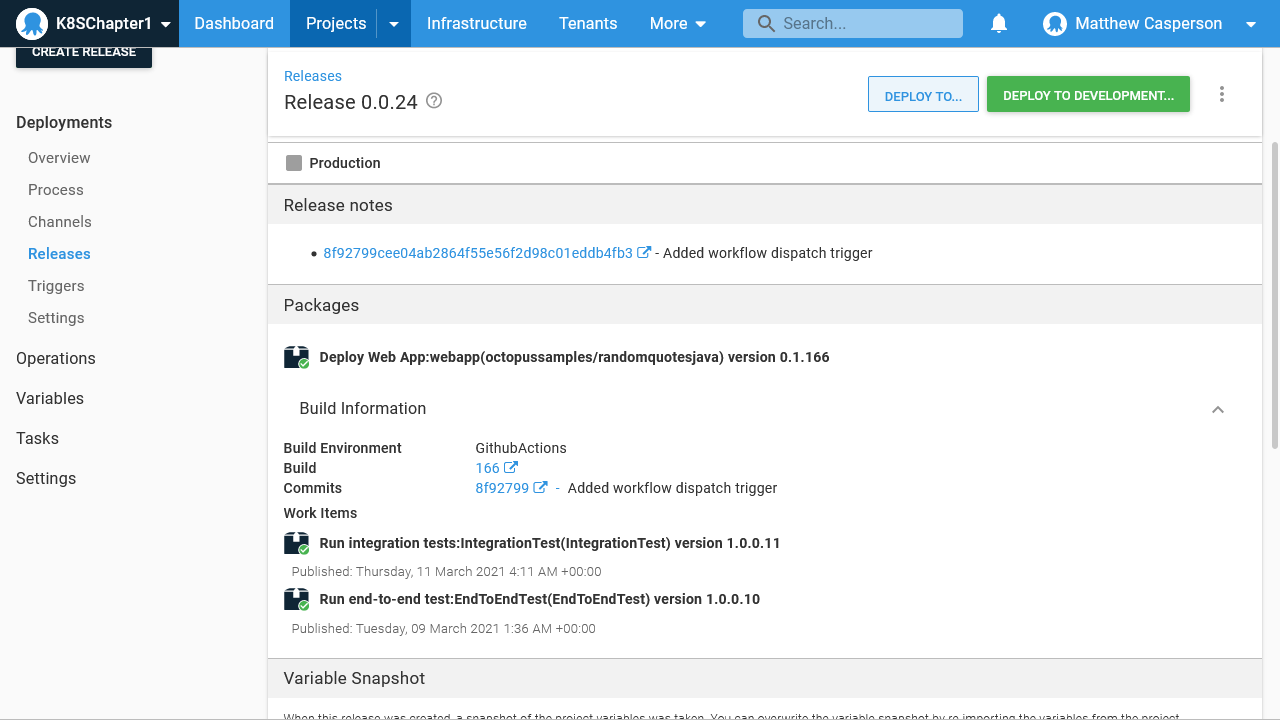
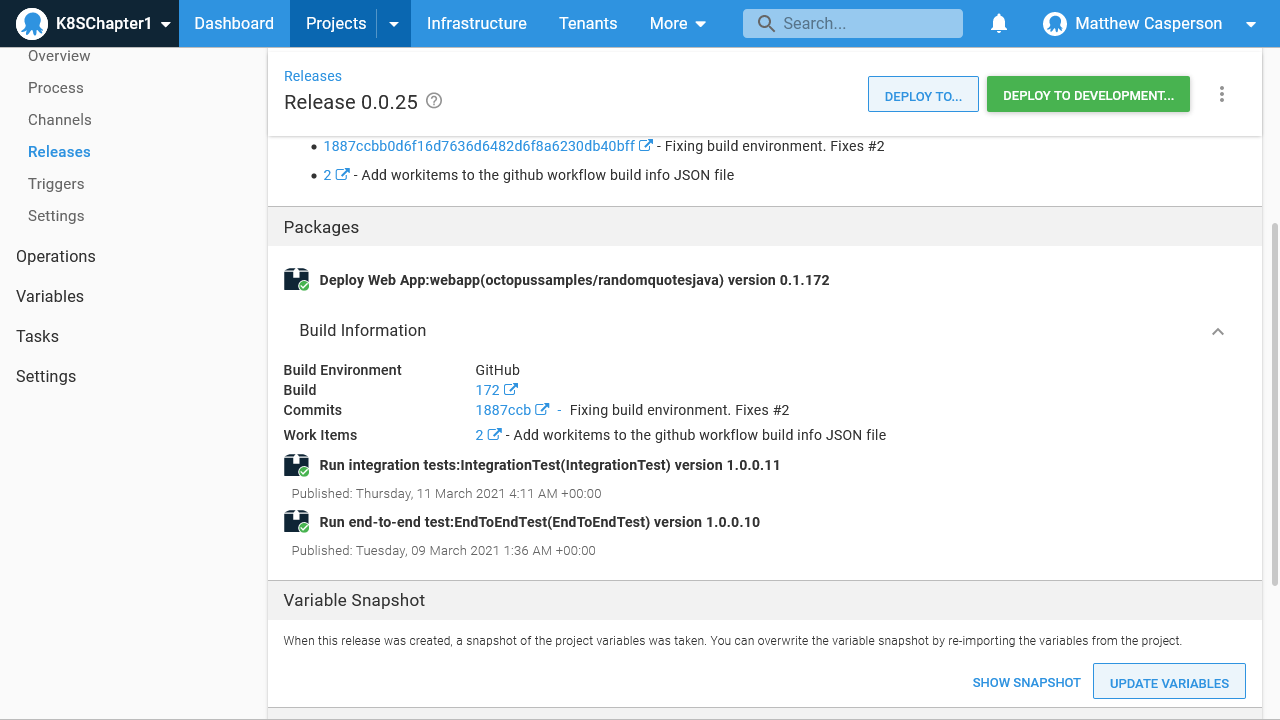
Added examples of work items

diff --git a/_includes/chapter5.html b/_includes/chapter5.html
@@ -95,6 +95,10 @@
 </p>
 <p class="note">
     At the time of writing there is no official Octopus GitHub Actions plugin that can be used to create a build information JSON file.
+</p>
+<p>
+    Before we start pushing build information, we need to enable Octopus to parse commit messages looking for links to work items (or, as they are know in GitHub, issues). This is done through <b>Configuration -> Settings -> GitHub Issue Tracker</b>. By enabling this setting, GIT commit messages like <b>Updated the blah class to expose x. Fixes #123</b> will be parsed and the <b>Fixes #123</b> string is converted into a link to the GitHub issue number 123.
+</p>
 <p>
     The source code used to generate the Docker image we have been deploying as the frontend web application is found at <a href="https://github.com/OctopusSamples/RandomQuotes-Java">https://github.com/OctopusSamples/RandomQuotes-Java</a>. The code in this GIT repository is built with the workflow file at <a href="https://github.com/OctopusSamples/RandomQuotes-Java/blob/master/.github/workflows/maven.yml">https://github.com/OctopusSamples/RandomQuotes-Java/blob/master/.github/workflows/maven.yml</a>. The complete workflow file is shown below:
 </p>
@@ -177,7 +181,7 @@ jobs:
         \"BuildUrl\": \"https://github.com/${{github.repository}}/actions/runs/${{github.run_id}}\",
         \"BuildNumber\": \"${{ github.run_number }}\",
         \"Branch\": \"${{ github.ref }}\",
-        \"BuildEnvironment\":\"GithubActions\",
+        \"BuildEnvironment\":\"GitHub\",
         \"VcsCommitNumber\":\"${{ github.sha }}\",
         \"VcsCommitUrl\":\"https://github.com/OctopusSamples/RandomQuotes-Java/commit/${{ github.sha }}\",
         \"VcsType\": \"Git\",
@@ -222,7 +226,7 @@ run: >-
   \"BuildUrl\": \"https://github.com/${{github.repository}}/actions/runs/${{github.run_id}}\",
   \"BuildNumber\": \"${{ github.run_number }}\",
   \"Branch\": \"${{ github.ref }}\",
-  \"BuildEnvironment\":\"GithubActions\",
+  \"BuildEnvironment\":\"GitHub\",
   \"VcsCommitNumber\":\"${{ github.sha }}\",
   \"VcsCommitUrl\":\"https://github.com/OctopusSamples/RandomQuotes-Java/commit/${{ github.sha }}\",
   \"VcsType\": \"Git\",
@@ -248,7 +252,7 @@ run: >-
   "BuildUrl": "https://github.com/OctopusSamples/RandomQuotes-Java/actions/runs/652926986",
   "BuildNumber": "164",
   "Branch": "refs/heads/master",
-  "BuildEnvironment": "GithubActions",
+  "BuildEnvironment": "GitHub",
   "VcsCommitNumber": "20070c3d0c0543c4be3cfec8d63c6d6e64fe43e6",
   "VcsCommitUrl": "https://github.com/OctopusSamples/RandomQuotes-Java/commit/20070c3d0c0543c4be3cfec8d63c6d6e64fe43e6",
   "VcsType": "Git",
@@ -290,10 +294,13 @@ run: >-
 #{each commit in package.Commits}
 * [#{commit.CommitId}](#{commit.LinkUrl}) - #{commit.Comment}
 #{/each}
+#{each workItem in package.WorkItems}
+* [#{workItem.Id}](#{workItem.LinkUrl}) - #{workItem.Description}
+#{/each}
 #{/each}
 </pre>
 <p>
-    This template loops over the packages referenced in a release, and creates a link for each commit associated with the package version:
+    This template loops over the packages referenced in a release, and creates a link for each commit and work item associated with the package version:
 </p>
 <div><img alt="Redeploy" src="images/octopus/release-notes.png"/></div>
 <p>
